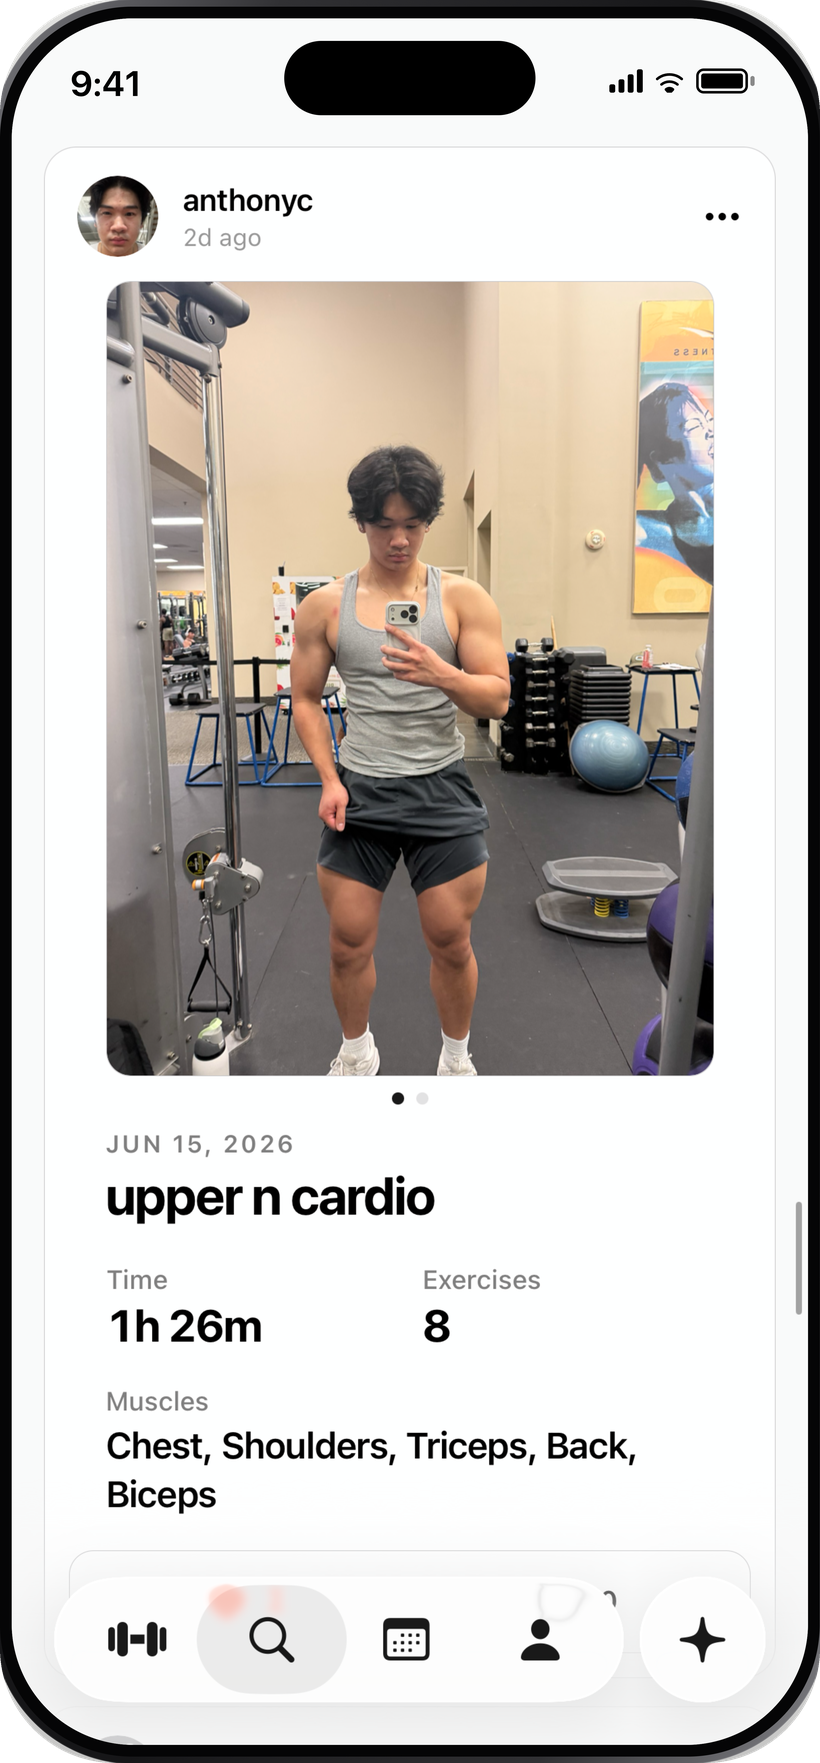
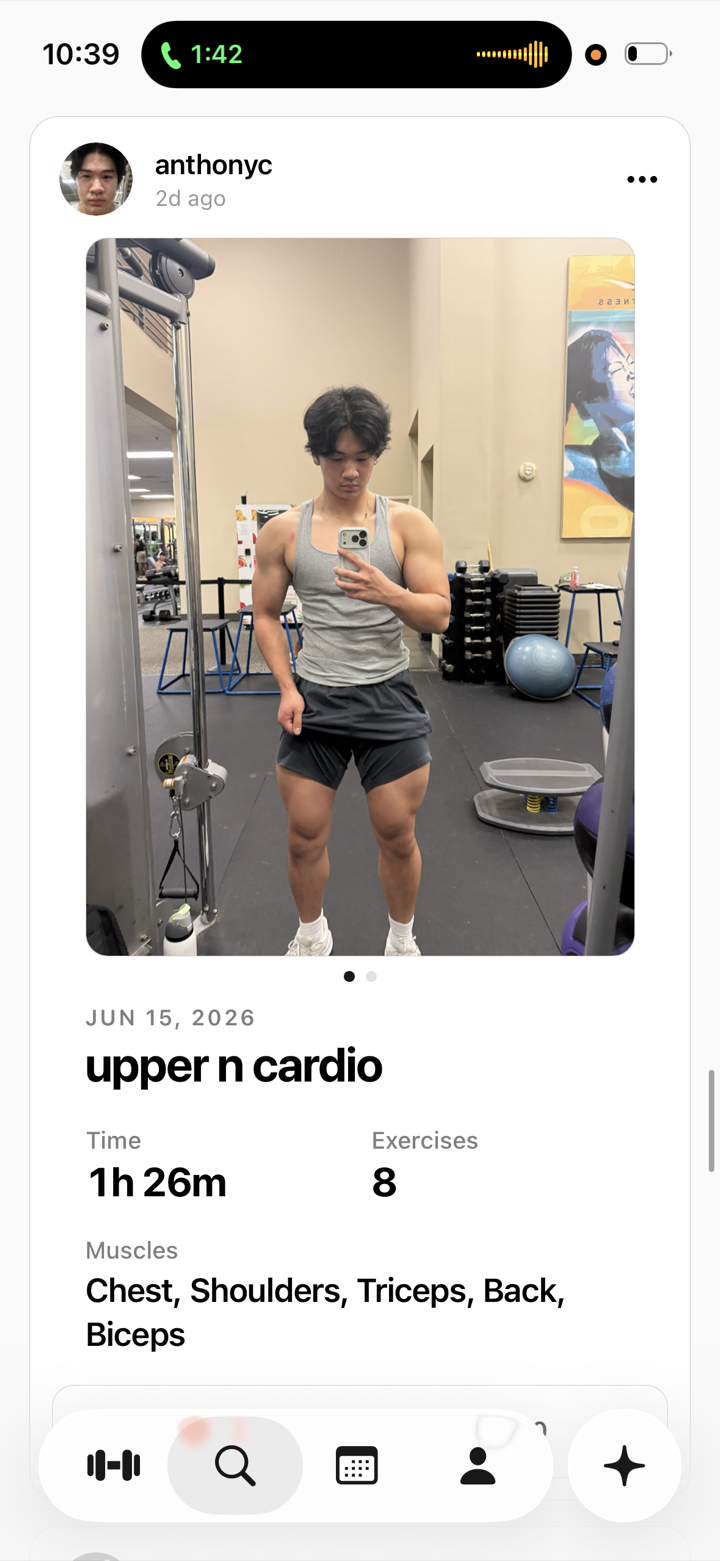
changes

diff --git a/index.html b/index.html
@@ -100,10 +100,24 @@
       }
 
       /* ===== NAV ===== */
+      /* Starts transparent and integrated into the hero, then condenses into a
+         solid blurred header once the page is scrolled (see .scrolled). */
       nav.top {
-        position: sticky;
+        position: fixed;
         top: 0;
+        left: 0;
+        right: 0;
         z-index: 20;
+        background: transparent;
+        backdrop-filter: none;
+        -webkit-backdrop-filter: none;
+        border-bottom: 1px solid transparent;
+        transition:
+          background 0.32s ease,
+          backdrop-filter 0.32s ease,
+          border-color 0.32s ease;
+      }
+      nav.top.scrolled {
         background: rgba(11, 11, 12, 0.78);
         backdrop-filter: blur(10px);
         -webkit-backdrop-filter: blur(10px);
@@ -287,7 +301,8 @@
       .stack {
         position: relative;
         width: 300px;
-        aspect-ratio: 820 / 1763;
+        /* outer frame ratio = screenshot ratio + proportional bezel (see .phone-shot) */
+        aspect-ratio: 1000 / 2098;
         margin: 0;
         perspective: 1600px;
         touch-action: pan-y;
@@ -296,13 +311,21 @@
       .stack:active {
         cursor: grabbing;
       }
+      /* iPhone frame drawn in CSS; the screenshot lives inside .screen.
+         Corner radii are in px so they stay circular (a % radius on a tall
+         box yields stretched, elliptical corners — the classic fake tell). */
       .phone-shot {
         position: absolute;
         top: 0;
         left: 0;
         width: 100%;
-        height: auto;
         display: block;
+        padding: 3%;
+        background: linear-gradient(150deg, #3a3a3e 0%, #131315 30%, #060607 100%);
+        border-radius: 52px;
+        box-shadow:
+          inset 0 0 0 1px rgba(255, 255, 255, 0.18),
+          inset 0 0 0 2.5px #000;
         will-change: transform, opacity;
         transition:
           transform 0.5s cubic-bezier(0.22, 1, 0.36, 1),
@@ -311,6 +334,44 @@
         -webkit-user-select: none;
         -webkit-user-drag: none;
         filter: drop-shadow(0 24px 48px rgba(0, 0, 0, 0.55));
+      }
+      .phone-shot .screen {
+        position: relative;
+        width: 100%;
+        aspect-ratio: 1179 / 2556;
+        border-radius: 42px;
+        overflow: hidden;
+        background: #fff;
+      }
+      .phone-shot .screen img {
+        width: 100%;
+        height: 100%;
+        object-fit: cover;
+        display: block;
+        -webkit-user-drag: none;
+        user-select: none;
+      }
+      /* Uniform iOS status bar — covers each screenshot's real (mismatched)
+         status bar with one 9:41 bar; scales with the phone via the SVG viewBox. */
+      .phone-shot .statusbar {
+        position: absolute;
+        top: 0;
+        left: 0;
+        width: 100%;
+        z-index: 2;
+        display: block;
+      }
+      /* Dynamic Island */
+      .phone-shot .island {
+        position: absolute;
+        top: 2.1%;
+        left: 50%;
+        transform: translateX(-50%);
+        width: 31%;
+        aspect-ratio: 100 / 30;
+        background: #000;
+        border-radius: 999px;
+        z-index: 3;
       }
       /* Hint + position dots */
       .stack-dots {
@@ -879,6 +940,7 @@
           <img src="/gear-logo.png" alt="Gear" />
         </a>
         <div class="links">
+          <a href="#preview">Preview</a>
           <a href="#about">About</a>
         </div>
         <a class="cta" href="#download">
@@ -936,7 +998,13 @@
     </section>
 
     <!-- App screenshots — flippable stack -->
-    <section class="showcase">
+    <section class="showcase" id="preview">
+      <div class="wrap">
+        <div class="section-head">
+          <div class="kicker mono-caps">Preview</div>
+          <h2 class="serif">Take a look inside.</h2>
+        </div>
+      </div>
       <div class="stack-row">
         <button class="stack-nav prev" id="stackPrev" type="button" aria-label="Previous screen">
           <svg width="18" height="18" viewBox="0 0 24 24" fill="none" aria-hidden="true">
@@ -944,12 +1012,41 @@
           </svg>
         </button>
         <div class="stack" id="phoneStack" aria-roledescription="card stack">
-          <img class="phone-shot" src="/screens/01-brand.png" alt="Gear home screen" />
-          <img class="phone-shot" src="/screens/02-social.png" alt="Gear social feed" />
-          <img class="phone-shot" src="/screens/03-logging.png" alt="Gear set logging" />
-          <img class="phone-shot" src="/screens/04-progress.png" alt="Gear progress photos" />
-          <img class="phone-shot" src="/screens/05-insights.png" alt="Gear muscle insights" />
-          <img class="phone-shot" src="/screens/06-profile.png" alt="Gear profile and streak" />
+          <div class="phone-shot">
+            <div class="screen">
+              <img src="/screens/01-home.png" alt="Gear home screen" />
+              <svg class="statusbar" viewBox="0 0 393 54" preserveAspectRatio="xMidYMid meet" xmlns="http://www.w3.org/2000/svg"><rect width="393" height="54" fill="#fafafa"/></svg>
+              <div class="island"></div>
+            </div>
+          </div>
+          <div class="phone-shot">
+            <div class="screen">
+              <img src="/screens/02-social.png" alt="Gear social feed" />
+              <svg class="statusbar" viewBox="0 0 393 54" preserveAspectRatio="xMidYMid meet" xmlns="http://www.w3.org/2000/svg"><rect width="393" height="54" fill="#fafafa"/></svg>
+              <div class="island"></div>
+            </div>
+          </div>
+          <div class="phone-shot">
+            <div class="screen">
+              <img src="/screens/03-logging.png" alt="Gear set logging" />
+              <svg class="statusbar" viewBox="0 0 393 54" preserveAspectRatio="xMidYMid meet" xmlns="http://www.w3.org/2000/svg"><rect width="393" height="54" fill="#fafafa"/></svg>
+              <div class="island"></div>
+            </div>
+          </div>
+          <div class="phone-shot">
+            <div class="screen">
+              <img src="/screens/04-insights.png" alt="Gear muscle insights" />
+              <svg class="statusbar" viewBox="0 0 393 54" preserveAspectRatio="xMidYMid meet" xmlns="http://www.w3.org/2000/svg"><rect width="393" height="54" fill="#ffffff"/></svg>
+              <div class="island"></div>
+            </div>
+          </div>
+          <div class="phone-shot">
+            <div class="screen">
+              <img src="/screens/05-profile.png" alt="Gear profile and streak" />
+              <svg class="statusbar" viewBox="0 0 393 54" preserveAspectRatio="xMidYMid meet" xmlns="http://www.w3.org/2000/svg"><rect width="393" height="54" fill="#fafafa"/></svg>
+              <div class="island"></div>
+            </div>
+          </div>
         </div>
         <button class="stack-nav next" id="stackNext" type="button" aria-label="Next screen">
           <svg width="18" height="18" viewBox="0 0 24 24" fill="none" aria-hidden="true">
@@ -1036,6 +1133,19 @@
         <div class="meta">gearfitness.app · made in Tacoma · 2026</div>
       </div>
     </footer>
+
+    <!-- Nav: transparent over the hero, condenses to a solid header on scroll -->
+    <script>
+      (function () {
+        var nav = document.querySelector("nav.top");
+        if (!nav) return;
+        function onScroll() {
+          nav.classList.toggle("scrolled", window.scrollY > 24);
+        }
+        onScroll();
+        window.addEventListener("scroll", onScroll, { passive: true });
+      })();
+    </script>
 
     <!-- Flip-stack interaction for the app screenshots -->
     <script>
@@ -1212,7 +1322,11 @@
             c.style.transition = "";
           });
           if (Math.abs(curDx) > 70) {
-            advance(curDx > 0 ? 1 : -1);
+            if (curDx > 0) {
+              advance(1); // swipe right → next
+            } else {
+              retreat(); // swipe left → bring back the previous card
+            }
           } else {
             render();
           }
@@ -1223,9 +1337,12 @@
         // Keyboard support
         stack.tabIndex = 0;
         stack.addEventListener("keydown", function (e) {
-          if (e.key === "ArrowLeft" || e.key === "ArrowRight" || e.key === " ") {
+          if (e.key === "ArrowRight" || e.key === " ") {
             e.preventDefault();
-            advance(e.key === "ArrowLeft" ? -1 : 1);
+            advance(1); // next
+          } else if (e.key === "ArrowLeft") {
+            e.preventDefault();
+            retreat(); // back
           }
         });
 
